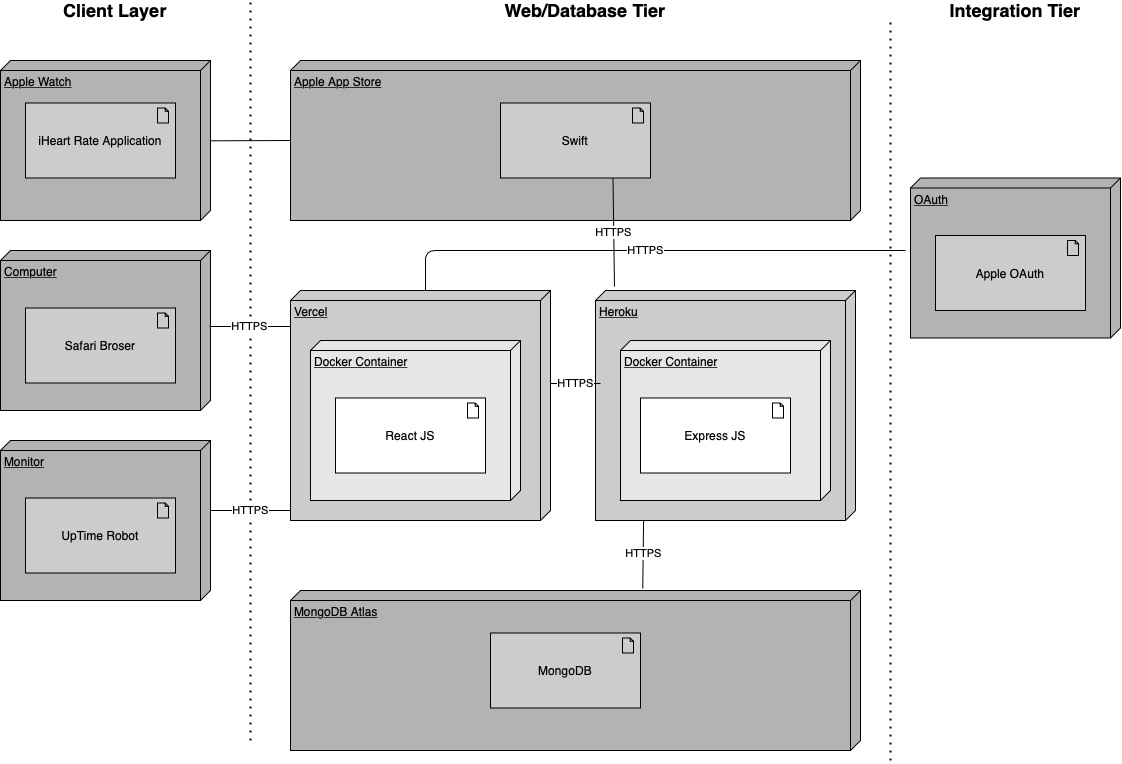
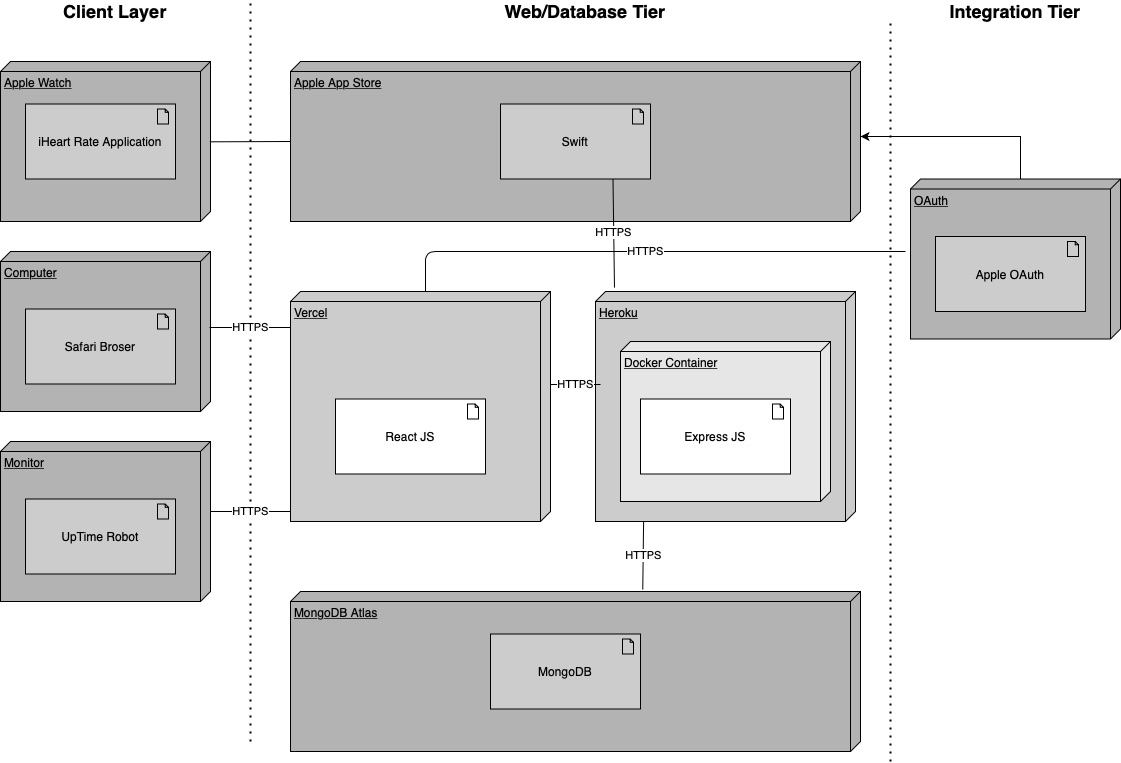
Updated Firebase

diff --git a/README.md b/README.md
@@ -74,9 +74,9 @@ The project consists of two main applications, an Apple Watch app and a website.
   <blockquote>
     Heroku is used to deploy the Express application that is within a Docker containers. This platform made the process really simple with the Heroku CLI in order to deploy the Docker Image created by the Express Application
   </blockquote>
-  <b>Vercel</b>
+  <b>Google Firebase</b>
   <blockquote>
-    Vercel is a cloud platform that is the most compatable with react applications. It also offered a code pipeline service to be hooked up to GitHub or Bitbucket in order to implement CI/CD features.
+    Google Firebase is a platform on Google's cloud that is set up for Node JS projects. It also has built in capabilities that integrate 'Sign in with apple' into the project easily.
   </blockquote>
   <b>Docker</b>
   <blockquote>
@@ -102,16 +102,16 @@ The project consists of two main applications, an Apple Watch app and a website.
 <h1>Design</h1> <a name="Design"></a>
 <h3>Logical Solution Design</h3> <a name="Logical"></a>
 The logical system design of the iHeart Rate project describes how the code will logically flow through the application. Starting from the client layer the user can interact with the project on two platforms: web browser and Apple Watch. An Apple MacBook Pro and Apple Watch Series 5 are listed as they are the two devices that the application is being developed and tested on. 
-The front end of the web application will be deployed using Vercel and the backend is deployed with Heroku. The user will interact with the front end of that application that is written with the React framework. React makes a use of components and services in order to display and retrieve information to and from the user. The components for this application include home, main and sign in to create all the views of the application. These components make use of the user and heart rate service in order to create REST API calls to the back end using the library of Axios. Axios is a JavaScript library that has the ability to make HTTPS request. These HTTPS requests are handled by the Express application for the back end of the application. The routes within the express application can pick out the data form the HTTPS request and create models from the data. Within Express there are two models that are implemented one for the user object and another for the heart rate object. These models make it easy to send the object data between both business and data services as the Express application uses the DAO design pattern. The business services either, user business service or heart rate business service are created in order to transfer data from the routes to the data services. There are only two data services as there are only two object models that the application deals with. The data services connect the backend of the application to the MongoDB Database. The database that is running on the cloud using Mongodb Atlas which contains two collections: user and heart rate in order to hold documents of the object models. 
+The front end of the web application will be deployed using Firebase and the backend is deployed with Heroku. The user will interact with the front end of that application that is written with the React framework. React makes a use of components and services in order to display and retrieve information to and from the user. The components for this application include home, main and sign in to create all the views of the application. These components make use of the user and heart rate service in order to create REST API calls to the back end using the library of Axios. Axios is a JavaScript library that has the ability to make HTTPS request. These HTTPS requests are handled by the Express application for the back end of the application. The routes within the express application can pick out the data form the HTTPS request and create models from the data. Within Express there are two models that are implemented one for the user object and another for the heart rate object. These models make it easy to send the object data between both business and data services as the Express application uses the DAO design pattern. The business services either, user business service or heart rate business service are created in order to transfer data from the routes to the data services. There are only two data services as there are only two object models that the application deals with. The data services connect the backend of the application to the MongoDB Database. The database that is running on the cloud using Mongodb Atlas which contains two collections: user and heart rate in order to hold documents of the object models. 
 The application has a similar path of data and code logic however the beginnings of the process are different. As the Apple Watch app cannot be deployed on a cloud platform it must be hosted from the Apple App Store. The front end and service layer code for the apple watch app will be done in Swift. Swift is a responsible for setting up the front end of the application and making the REST API calls to the back end. With the addition of the URL Session library provided by Swift the creation of HTTP requests is just as easy as Axios. The HTTP request is then sent to the Express application in AWS just as Axios did with the request from React. After the request reaches the Express application the data follows the same flow as the request from React did to reach MongoDB.
 <p align="center">
   <img width="80%" src="Photo/LogicalSystemDesign.jpg">
 </p>
 
 <h3>Physical Solution Design</h3> <a name="Physical"></a>
-The physical solution design below of the iHeart Rate project displays the technologies, services and platforms that are used in order to deploy the application. Starting with the web application there are two platforms in which interact with the entirety of the AWS container, the two being a web browser and Up Time Robot. Up Time Robot is a monitoring tool for cloud applications test the reliability of the application, this will be described more within the Operational Support Design section. The web application interacts with the front end of the application through HTTPS port 443 to make HTTPS requests. The first host the cloud host whether it be Vercel for the frontend or Heroku for the backend. The request will then meet docker container which will route it to the application. The connection between the frontend and the backend will follow the same path going from the docker container to the cloud platform to the internet. The same goes for the connection between the backend and the database, Mongo is using AWS to host a container in order to store the information. This connection is made through a mongoose object that has the srv to the Mongo Atlas database that will send request using HTTPS.
+The physical solution design below of the iHeart Rate project displays the technologies, services and platforms that are used in order to deploy the application. Starting with the web application there are two platforms in which interact with the entirety of the AWS container, the two being a web browser and Up Time Robot. Up Time Robot is a monitoring tool for cloud applications test the reliability of the application, this will be described more within the Operational Support Design section. The web application interacts with the front end of the application through HTTPS port 443 to make HTTPS requests. The first host the cloud host whether it be Firebase for the frontend or Heroku for the backend. The request will then meet docker container which will route it to the application. The connection between the frontend and the backend will follow the same path going from the docker container to the cloud platform to the internet. The same goes for the connection between the backend and the database, Mongo is using AWS to host a container in order to store the information. This connection is made through a mongoose object that has the srv to the Mongo Atlas database that will send request using HTTPS.
 The path of a request from the Apple Watch Application follows a similar path but just like the Logical System Design it does start out different. The Apple Watch application will be deployed on the App Store where any user can download it. Once the application starts making request it uses the same HTTPS port 443 in order to access the Express application through a secure connection. Once in the Express application the data will pass through the different layers all the way to be able to access the database just as the web request did. For all deployments certain processing powers and storage are allocated in order to get the information in-between the application as quickly and securely as possible
-The database running on Mongo starts out with shared ram and CPU cores as well as 512mb to store information. Though this may seem small the database can scale up and down in performance based on the metrics is needed to perform action seamlessly. As for the frontend deployed in Vercel the application starts with 1024MB of RAM, shared CPU, and 512mb of storage with scalable storage and memory. Lastly the Heroku deployment which houses the backend of the application starts out with 512mb of RAM, shared CPU and saleable storage. 
+The database running on Mongo starts out with shared ram and CPU cores as well as 512mb to store information. Though this may seem small the database can scale up and down in performance based on the metrics is needed to perform action seamlessly. As for the frontend deployed in Firebase the application starts with 1024MB of RAM, shared CPU, and 512mb of storage with scalable storage and memory. Lastly the Heroku deployment which houses the backend of the application starts out with 512mb of RAM, shared CPU and saleable storage. 
 <p align="center">
   <img width="60%" src="Photo/PhysicalSolutionDesign.jpg">
 </p>
@@ -133,7 +133,7 @@ The Diagram below display the class design of the back end of the application wh
 <h3>UML Class Diagram React</h3> <a name="React"></a>
 The diagram below outlines the UML Class Diagram structure of the front end of the application implemented with react. React works with components and within each of them there are props, state and methods. Props in react are variables that are sent between different components such as a user that is signed into the application. State are variables that are only specific to each component and can be used to display certain information on the page based on user input for an example. Lastly methods are just the actions that the component such as an onChange method in order to handle an input from the user. The home page does not have very many moving components on the screen as can see by the class diagram. The only logic that is occurring for this page is the ‘Sign in with Apple feature’ most the logic is completed by Apple oAuth functionality itself. On the other hand, the dashboard page has a lot of state variables and methods.  This page contains properties to set the table, graph, average heart rate, last recorded heart rate and all the properties that help with that information. The methods within this page are to handle and set all the components for the user output and render the page when it loads in. There are no props used through this project because the user information for the user will be stored in an HTTP cookie so that the information can be accessed anywhere. 
 <p align="center">
-  <img width="60%" src="Photo/UMLClass(React).jpg">
+  <img width="60%" src="Photo/UMLClass(React).png">
 </p>
 <h3>UML Class Diagram Swift</h3> <a name="Swift"></a>
 The diagram below outlines the class structure within swift for the Apple Watch application. The interface controller set up the view and the workout that is needed to record the heart rate of the user. The BMP of the user is then sent to the Heart Rate Service to be able to make an HTTPS request using URL Session library. 
@@ -153,19 +153,19 @@ The diagram shows the flow of data when the User is with Main component of the r
 <h3>UML Sequence Diagram Apple Watch calling Backend</h3> <a name="AtoB"></a>
 The diagram below displays the sequence the data from the apple watch takes when a new heart rate needs to be saved within the database.
 <p align="center">
-  <img width="60%" src="Photo/UMLClass(Swift).jpg">
+  <img width="60%" src="Photo/Sequence(Heart).jpg">
 </p>
 <h3>Deployment Diagram</h3> <a name="Deployment"></a>
-In the figure below outlines the deployment structure of both the web and Apple Watch application. The deployment will contain the Apple Watch Application being hosted on the Apple App Store, React will be deployed using Vercel in a docker container, Express will also be inside a docker container though hosted on Heroku, and the database will be deployed with MongoDB Atlas.
+In the figure below outlines the deployment structure of both the web and Apple Watch application. The deployment will contain the Apple Watch Application being hosted on the Apple App Store, React will be deployed using Firebase, Express will be inside a docker container though hosted on Heroku, and the database will be deployed with MongoDB Atlas.
 <p align="center">
   <img width="60%" src="Photo/Deployment.jpg">
 </p>
 <h1>Final Product</h1> <a name="FinalProduct"></a>
 <h3>Cloud Deployment</h3> <a name="CloudDeployment"></a>
-As mentioned above the web applicaiton is currently deployed on multiple different cloud platforms. For the frontend of the application beucase it is a React application it was deployed on Vercel. This specific cloud platforms offers the best support for any React or Node application. For the backend it was first containerized using Docker then deployed on Heroku. Docker made the deployment very easy as if the container runs locally it will also be able to run the same on another system.
+As mentioned above the web applicaiton is currently deployed on multiple different cloud platforms. For the frontend of the application beucase it is a React application it was deployed on Firebase. This specific cloud platforms offers the best support for any React or Node application. For the backend it was first containerized using Docker then deployed on Heroku. Docker made the deployment very easy as if the container runs locally it will also be able to run the same on another system.
 <h3>Best Practices and DevOps Principles</h3> <a name="BestPractices"></a>
 To start with best practices of programming each indiviual applicaiton implement some sort of logging in the own way. For Swift a libray called NSLog was able to print out log statments all the same format with a date and time stamp as well as severity. For Express the application is set up with middelware inorder to intercept each request and grab the HTTP method, body, and parameters in order to log the statment. Lastly for React the only logging that was done was completed within the development stage. As React has not logging library the only way to output information was by logging it to the console. These statments were all taken away before deployment as sesitive information was shared in the log statments. Another best pratice used was data validation through the web frontend. Though there was only one input for the web application it was fully validated to only take in a certain format of a date. Lastly all the code was commented with the proper annotation for each application. 
-As well as best practices there was also DevOps Principles that were implemented into each application. The first one is carried over from the best pratices which is logging, this information will help if there was every a bug with the applicaiton. The second DevOps Principle that is used through the frontend of the application is CI/CD, this was implmented through Vercel as it was connected to a GitHub Repository. Lastly Uptime Robot was implemented in to the application in order to ensure that both the frontend and back end are accessible at any time, and if not will trigger an alert in order to say one of the applications was down. 
+As well as best practices there was also DevOps Principles that were implemented into each application. The first one is carried over from the best pratices which is logging, this information will help if there was every a bug with the applicaiton. The second DevOps Principle that is used through the frontend of the application is CI/CD, this was implmented through Firebase as it was connected to a GitHub Repository. Lastly Uptime Robot was implemented in to the application in order to ensure that both the frontend and back end are accessible at any time, and if not will trigger an alert in order to say one of the applications was down. 
 <h3>New Technolgies</h3> <a name="NewTechnolgies"></a>
 Most all of the technologies that are used throughout this project were new or worked with very minimaly. Learning Swift helped with understanding IOS and WatchOS applications.  React helped created a light weight dynamic webpage that can be implmented in various different applications. Express was leanered in order to get a beter understand of Node and create a dedicated REST API application. Mongo offered a different expirence from a SQL database as there is not configuration needed for the collection within the database. The different cloud plaforms all offered various different features that were crutial to the deployment of the application. 
 <h3>Challenges</h3> <a name="Challenges"></a>
